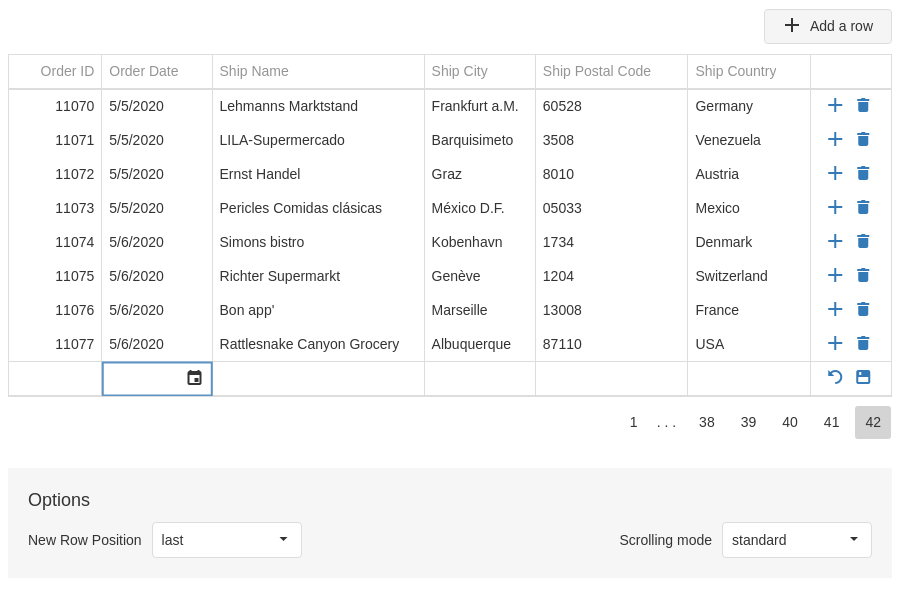
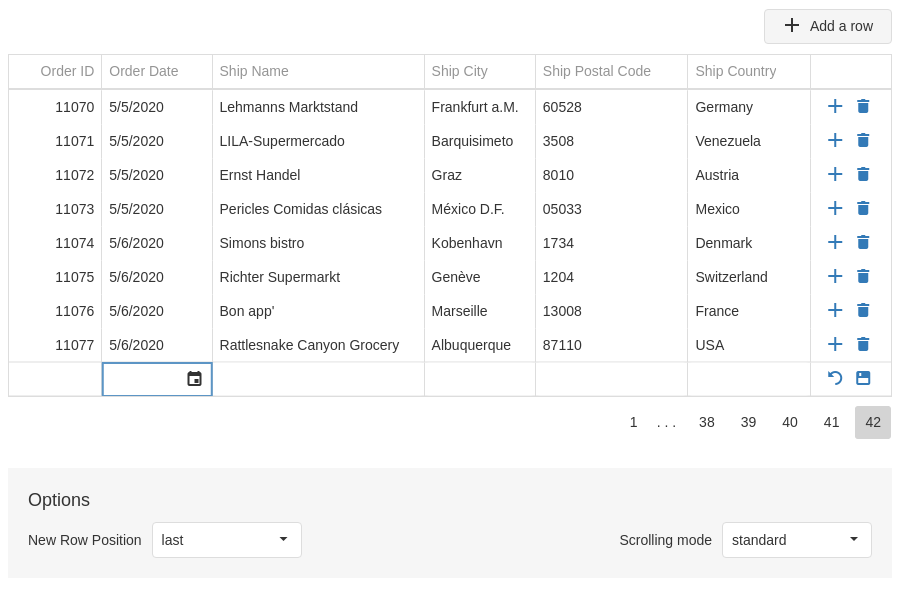
DataGrid: Fix newRowPosition 'last' if scrolling.mode is 'virtual' (#1414)

diff --git a/testing/widgets/datagrid/CustomNewRecordPosition.test.js b/testing/widgets/datagrid/CustomNewRecordPosition.test.js
@@ -1,5 +1,5 @@
 import { createScreenshotsComparer } from 'devextreme-screenshot-comparer';
-import { ClientFunction, Selector } from 'testcafe';
+import { Selector } from 'testcafe';
 import { runManualTest } from '../../../utils/visual-tests/matrix-test-helper';
 
 fixture('DataGrid.CustomNewRecordPosition')
@@ -25,12 +25,6 @@ runManualTest(test, 'DataGrid', 'CustomNewRecordPosition', 'jQuery', (test) => {
 
       await setNewRowPosition(newRowPosition);
       await t.click('.dx-datagrid-addrow-button');
-
-      if (newRowPosition === 'last') {
-        await ClientFunction(() => {
-          $('#gridContainer').dxDataGrid('instance').getScrollable().scrollBy(1);
-        });
-      }
 
       await takeScreenshot(`datagrid_CustomNewRecordPosition_${newRowPosition}_added.png`);
 

diff --git a/JSDemos/Demos/DataGrid/RowTemplate/Vue/App.vue b/JSDemos/Demos/DataGrid/RowTemplate/Vue/App.vue
@@ -6,7 +6,7 @@
       key-expr="ID"
       :column-auto-width="true"
       :show-borders="true"
-      row-template="dataRowTemplate"
+      row-template="rowTemplate"
     >
       <DxColumn
         :width="100"
@@ -30,7 +30,7 @@
         data-field="HireDate"
         data-type="date"
       />
-      <template #dataRowTemplate="{ data: rowInfo }">
+      <template #rowTemplate="{ data: rowInfo }">
         <tbody
           :class="{'dx-row-alt': rowInfo.rowIndex % 2}"
           class="employee dx-row"
